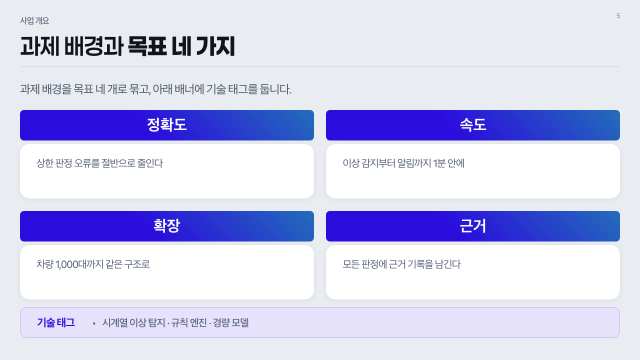
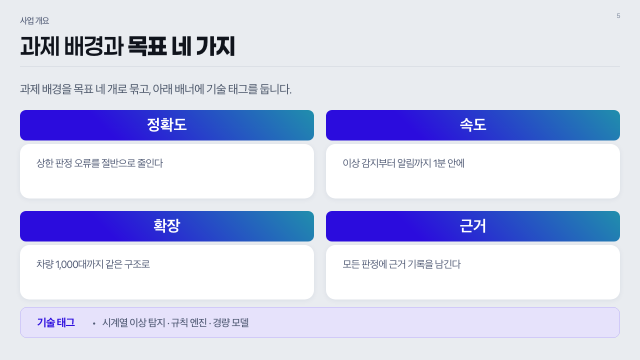
알약 모서리 12, 초록 그라데이션 더 세게(60%, 70% 지점까지)

diff --git a/docs/templates/deck.html b/docs/templates/deck.html
@@ -11,7 +11,7 @@
 deck-stage:not(:defined){visibility:hidden;}
 :root{
   --primary:#2B0CDD;--primary-2:#5D48FF;--primary-deep:#2815B0;
-  --primary-soft:#E8E5FF;--pill-glow:#236EB9;--primary-softer:#F5F4FF;
+  --primary-soft:#E8E5FF;--pill-glow:#208FAC;--primary-softer:#F5F4FF;
   --accent:#00A89D;--gold:#C8A24B;--gold-light:#F2D78E;
   --success:#138A4E;--warning:#C97A1F;--danger:#C9302C;
   --bg-soft:#F5F7FA;--border:#D9DEE6;--border-strong:#B9C3D2;
@@ -53,7 +53,7 @@ body{font-family:var(--font);-webkit-font-smoothing:antialiased;color:var(--text
 .slabel{display:inline-flex;align-items:center;height:2.1em;padding:0 1.05em;background:var(--primary);color:#fff;font-size:var(--fs-card);font-weight:700;border-radius:8px;white-space:nowrap;line-height:1;margin-bottom:.8em;align-self:flex-start;}
 /* card: 제목 피약 + 흰 본문 — 투명 래퍼 + 독립 피약 + 독립 흰 박스 */
 .card{position:relative;background:transparent;border:0;border-radius:0;box-shadow:none;display:flex;flex-direction:column;min-height:0;overflow:visible;gap:.3em;font-size:var(--fs-body);}
-.card>.cap{background:linear-gradient(225deg,var(--pill-glow) 0%,var(--primary) 58%);color:#fff;font-size:var(--fs-card);font-weight:700;line-height:1.3;text-align:center;padding:.325em 1em;letter-spacing:-.01em;border-radius:8px;flex:0 0 auto;white-space:nowrap;}
+.card>.cap{background:linear-gradient(225deg,var(--pill-glow) 0%,var(--primary) 70%);color:#fff;font-size:var(--fs-card);font-weight:700;line-height:1.3;text-align:center;padding:.325em 1em;letter-spacing:-.01em;border-radius:12px;flex:0 0 auto;white-space:nowrap;}
 .card>.bd{background:#fff;border-radius:19px;box-shadow:var(--card-shadow);padding:.95em 1.4em 1em;display:flex;flex-direction:column;flex:1;min-height:0;overflow:hidden;}
 /* 강조 카드도 본문 박스는 흰색이다. 한 장표 안에서 카드 바탕이 서로 달라 보이면
    어느 쪽이 중요한지가 아니라 "왜 색이 다르지" 로 읽힌다. 강조는 알약 제목으로만 한다. */
@@ -79,7 +79,7 @@ ul.rl.row li .v{display:inline;margin-left:.5em;}
 .grid{display:grid;gap:calc(var(--gap) * 1.6);flex:1;min-height:0;}
 /* stat card: 제목 피약 + 수치 본문 — 투명 래퍼 + 독립 피약 + 독립 흰 박스 */
 .stat{position:relative;background:transparent;border-radius:0;box-shadow:none;display:flex;flex-direction:column;min-height:0;overflow:visible;gap:.3em;font-size:var(--fs-body);}
-.stat>.cap{background:linear-gradient(225deg,var(--pill-glow) 0%,var(--primary) 58%);color:#fff;font-size:var(--fs-card);font-weight:700;text-align:center;padding:.325em 1em;line-height:1.3;border-radius:8px;flex:0 0 auto;white-space:nowrap;}
+.stat>.cap{background:linear-gradient(225deg,var(--pill-glow) 0%,var(--primary) 70%);color:#fff;font-size:var(--fs-card);font-weight:700;text-align:center;padding:.325em 1em;line-height:1.3;border-radius:12px;flex:0 0 auto;white-space:nowrap;}
 .stat>.bd{background:#fff;border-radius:19px;box-shadow:var(--card-shadow);padding:.95em 1.4em 1em;display:flex;flex-direction:column;justify-content:flex-start;flex:1;min-height:0;overflow:hidden;}
 .stat .sl{font-size:var(--fs-small);color:var(--body);font-weight:500;}
 .stat .sv{font-size:var(--fs-stat);font-weight:800;color:var(--text);line-height:1.05;margin-top:.1em;letter-spacing:-.04em;font-variant-numeric:tabular-nums;}
@@ -127,8 +127,8 @@ table.rt{width:100%;border-collapse:collapse;font-size:calc(var(--fs-table) * va
 /* compare: two labeled cards */
 .cmp{display:grid;grid-template-columns:1fr 3em 1fr;align-items:stretch;flex:1;min-height:0;font-size:var(--fs-body);}
 .side{position:relative;background:transparent;border-radius:0;box-shadow:none;display:flex;flex-direction:column;min-height:0;overflow:visible;gap:.3em;}
-.side>.cap{background:var(--text-mid);color:#fff;font-size:var(--fs-card);font-weight:700;text-align:center;padding:.325em 1em;line-height:1.3;border-radius:8px;flex:0 0 auto;white-space:nowrap;}
-.side.to>.cap{background:linear-gradient(225deg,var(--pill-glow) 0%,var(--primary) 58%);}
+.side>.cap{background:var(--text-mid);color:#fff;font-size:var(--fs-card);font-weight:700;text-align:center;padding:.325em 1em;line-height:1.3;border-radius:12px;flex:0 0 auto;white-space:nowrap;}
+.side.to>.cap{background:linear-gradient(225deg,var(--pill-glow) 0%,var(--primary) 70%);}
 .side>.bd{background:#fff;border-radius:19px;box-shadow:var(--card-shadow);padding:.95em 1.4em 1em;display:flex;flex-direction:column;flex:1;min-height:0;overflow:hidden;}
 .side.to>.bd{background:var(--primary-softer);}
 .side .sh{font-size:var(--fs-card);font-weight:700;margin:.1em 0 .6em;color:var(--text);}

diff --git a/docs/design/index.html b/docs/design/index.html
@@ -236,7 +236,7 @@ tr.dirty .val input{border-color:var(--acc);color:var(--acc)}
 /* deck primitives reused in demos + slide */
 .deck{font-family:var(--deck-body);letter-spacing:-1.067px;color:#1A2438}
 .d-card{display:flex;flex-direction:column;gap:.3em;font-size:calc(var(--fs-body)*var(--k))}
-.d-card>.cap{background:linear-gradient(225deg,var(--p-glow) 0%,var(--p) 58%);color:#fff;font-size:calc(var(--fs-card)*var(--k));font-weight:700;
+.d-card>.cap{background:linear-gradient(225deg,var(--p-glow) 0%,var(--p) 70%);color:#fff;font-size:calc(var(--fs-card)*var(--k));font-weight:700;
   line-height:1.3;text-align:center;padding:.325em 1em;border-radius:var(--r-pill);white-space:nowrap;overflow:hidden;text-overflow:ellipsis}
 .d-card>.bd{background:#fff;border-radius:var(--r-card);box-shadow:var(--card-shadow);
   padding:.95em 1.4em 1em;flex:1;min-height:0;overflow:hidden}
@@ -571,7 +571,7 @@ var DEFAULTS={
   h0:48,h0l:58.6,h0s:-1, h1:40,h1l:48,h1s:-1, h2:22,h2l:31.8,h2s:-0.2, b2:18,b2l:26.6,b2s:-0.8,
   eyebrow:17, stitle:46, lead:24, pgno:13,
   pad:40, safeBottom:44, bodyTop:220,
-  rCard:19, rBanner:14, rLabel:8, rPill:8,
+  rCard:19, rBanner:14, rLabel:8, rPill:12,
   shY:2, shBlur:12, shOp:7,
   dense:Object.assign({},DENSITY.dense), airy:Object.assign({},DENSITY.airy)
 };
@@ -598,7 +598,7 @@ function apply(){
   set('--deck-med',"'Paperlogy 5 Medium','Paperlogy','Pretendard','Noto Sans KR',sans-serif");
   set('--p',P.primary); set('--p2',P.primary2); set('--p-deep',P.primaryDeep);
   set('--p-soft',P.softBlue); set('--p-softer',P.softerBlue);
-  set('--p-glow',mix(S.primary,'#19E68C',0.45)); set('--p-banner',P.banner); set('--p-bborder',P.bannerBorder); set('--p-blabel',P.bannerLabel); set('--p-btext',P.bannerText);
+  set('--p-glow',mix(S.primary,'#19E68C',0.6)); set('--p-banner',P.banner); set('--p-bborder',P.bannerBorder); set('--p-blabel',P.bannerLabel); set('--p-btext',P.bannerText);
   set('--p-badge',P.coverBadge);
   set('--h0',(S.h0*PT).toFixed(2)+'px'); set('--h0l',(S.h0l*PT).toFixed(2)+'px'); set('--h0s',(S.h0s*PT).toFixed(3)+'px');
   set('--h1',(S.h1*PT).toFixed(2)+'px'); set('--h1l',(S.h1l*PT).toFixed(2)+'px'); set('--h1s',(S.h1s*PT).toFixed(3)+'px');

diff --git a/skills/ppt-maker/app/design-system.html b/skills/ppt-maker/app/design-system.html
@@ -236,7 +236,7 @@ tr.dirty .val input{border-color:var(--acc);color:var(--acc)}
 /* deck primitives reused in demos + slide */
 .deck{font-family:var(--deck-body);letter-spacing:-1.067px;color:#1A2438}
 .d-card{display:flex;flex-direction:column;gap:.3em;font-size:calc(var(--fs-body)*var(--k))}
-.d-card>.cap{background:linear-gradient(225deg,var(--p-glow) 0%,var(--p) 58%);color:#fff;font-size:calc(var(--fs-card)*var(--k));font-weight:700;
+.d-card>.cap{background:linear-gradient(225deg,var(--p-glow) 0%,var(--p) 70%);color:#fff;font-size:calc(var(--fs-card)*var(--k));font-weight:700;
   line-height:1.3;text-align:center;padding:.325em 1em;border-radius:var(--r-pill);white-space:nowrap;overflow:hidden;text-overflow:ellipsis}
 .d-card>.bd{background:#fff;border-radius:var(--r-card);box-shadow:var(--card-shadow);
   padding:.95em 1.4em 1em;flex:1;min-height:0;overflow:hidden}
@@ -571,7 +571,7 @@ var DEFAULTS={
   h0:48,h0l:58.6,h0s:-1, h1:40,h1l:48,h1s:-1, h2:22,h2l:31.8,h2s:-0.2, b2:18,b2l:26.6,b2s:-0.8,
   eyebrow:17, stitle:46, lead:24, pgno:13,
   pad:40, safeBottom:44, bodyTop:220,
-  rCard:19, rBanner:14, rLabel:8, rPill:8,
+  rCard:19, rBanner:14, rLabel:8, rPill:12,
   shY:2, shBlur:12, shOp:7,
   dense:Object.assign({},DENSITY.dense), airy:Object.assign({},DENSITY.airy)
 };
@@ -598,7 +598,7 @@ function apply(){
   set('--deck-med',"'Paperlogy 5 Medium','Paperlogy','Pretendard','Noto Sans KR',sans-serif");
   set('--p',P.primary); set('--p2',P.primary2); set('--p-deep',P.primaryDeep);
   set('--p-soft',P.softBlue); set('--p-softer',P.softerBlue);
-  set('--p-glow',mix(S.primary,'#19E68C',0.45)); set('--p-banner',P.banner); set('--p-bborder',P.bannerBorder); set('--p-blabel',P.bannerLabel); set('--p-btext',P.bannerText);
+  set('--p-glow',mix(S.primary,'#19E68C',0.6)); set('--p-banner',P.banner); set('--p-bborder',P.bannerBorder); set('--p-blabel',P.bannerLabel); set('--p-btext',P.bannerText);
   set('--p-badge',P.coverBadge);
   set('--h0',(S.h0*PT).toFixed(2)+'px'); set('--h0l',(S.h0l*PT).toFixed(2)+'px'); set('--h0s',(S.h0s*PT).toFixed(3)+'px');
   set('--h1',(S.h1*PT).toFixed(2)+'px'); set('--h1l',(S.h1l*PT).toFixed(2)+'px'); set('--h1s',(S.h1s*PT).toFixed(3)+'px');

diff --git a/skills/ppt-maker/references/design-system.md b/skills/ppt-maker/references/design-system.md
@@ -10,7 +10,7 @@
 
 `scripts/build_html.mjs`(HTML)와 `scripts/build_pptx.mjs`(PPTX)가 구현한다. 예전 디자인은 `*_classic.mjs`(초기)와 스크래치 백업(연차보고서 헤더 바 스타일)에만 남아 있다.
 
-- **알약 제목**(2026-10-09): 모서리 8px(`shape.pill`), 바탕은 메인 컬러에 오른쪽 위에서 초록(`accent.glow` #19E68C 45%)이 살짝 내려오는 그라데이션(`linear-gradient(225deg)`). PPTX 는 단색.
+- **알약 제목**(2026-10-09): 모서리 12px(`shape.pill`), 바탕은 메인 컬러에 오른쪽 위에서 초록(`accent.glow` #19E68C 60%)이 내려오는 그라데이션(`linear-gradient(225deg)`, 70% 지점까지). PPTX 는 단색.
 - **컬러·글꼴 원본**(2026-10-09): 컬러는 `design-system/colors.json`(primary 800·700·600·400·300·200, 회색, 상태색), 글꼴은 `design-system/fonts.json`. 크기·여백·모서리는 `design-tokens.json`. 메인 = primary 600 `#2B0CDD`, 보조 = primary 400 `#5D48FF`. 메인이 스케일의 600 과 같으면 진한 단계(간지 그라데이션 등)는 스케일의 800·700 을 그대로 쓴다.
 - **팔레트**: 배경 연회색 `--page` #E9ECF0, 카드 흰색 + 그림자 `0 2px 12px rgba(20,40,80,.07)`, `--primary` 포인트 컬러(#2F0CC5 보라, 카드 상단 띠·강조), `--primary-2` 파랑(#1E5BB8, 보조 수치 문장·그래프 선), 연파랑 틴트(`--primary-softer`, 강조 박스·TO-BE 카드), 본문 #1A2438 / 보조 #4A5568. 이모지·그라디언트 텍스트·다중 그림자 금지. Pretendard, 자간 -0.015em~-0.03em(제목).
 - **본문 장표 골격**(1280×720, **좌우 여백 40px** — 사용자 원본 PPTX 기준): 아이브로우 17px(y=30, `--body` #515B75, **그 장표가 속한 목차(섹션) 이름 하나만**) · 장 번호(몇 번째 장인지, 13px `--text-light`)는 아이브로우 줄과 따로 **오른쪽 위 모서리**(y=22)에 → 헤드라인 **34.5pt(46px)** 검정 계열 `--title` #10141C(y=61, `**강조**` 는 같은 색 800 굵기) → 1px 구분선(y=116, 여백 안쪽 전체 너비) → lead 18pt(24px) 회색(y=143, 줄간격 150%) → 본문(카드, 리드 1줄이면 y=220 부터) → 맨 아래 배너 → 출처·각주(있을 때만). 헤더 바 없음. 표지·간지·마무리는 그라디언트 배경.

diff --git a/skills/ppt-maker/templates/components.md b/skills/ppt-maker/templates/components.md
@@ -20,7 +20,7 @@
 
 | 부품 | 쓰이는 곳 | 상태 | 정할 것 · 정한 것 |
 | --- | --- | --- | --- |
-| 알약 제목(캡슐) | 05·08·09·18·20·23 등 카드가 있는 모든 곳 | 완료 | 24px, 모서리 8, 오른쪽 위에서 초록(#19E68C 45%) 그라데이션. PPTX 는 단색 |
+| 알약 제목(캡슐) | 05·08·09·18·20·23 등 카드가 있는 모든 곳 | 완료 | 24px, 모서리 12, 오른쪽 위에서 초록(#19E68C 60%) 그라데이션. PPTX 는 단색 |
 | 흰 카드(본문 상자) | 같음 | 완료 | 위에서부터 채움, 덩어리·항목 사이 최대 12px. 남는 공간은 아래 여백 |
 | 카드 안 소제목(`\| 소제목`) | 카드·컬럼·비교 | 점검 | 16pt 회색 굵게. 본문과 간격 |
 | 불릿 목록 | 카드·컬럼·배너·불릿 장표 | 점검 | 점 모양, 줄 간격(자동), `k:v` 두 줄 항목 |
